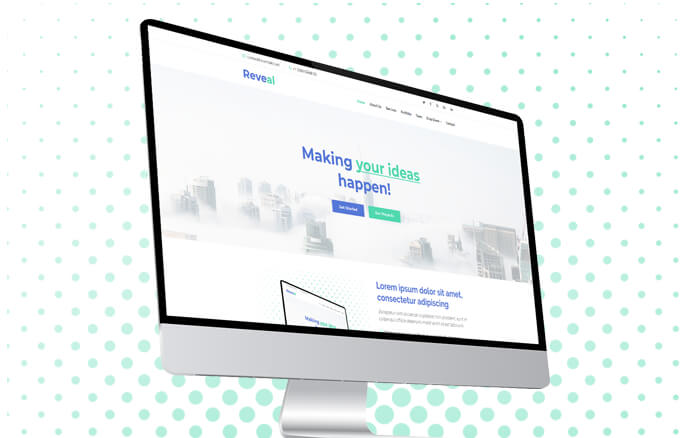
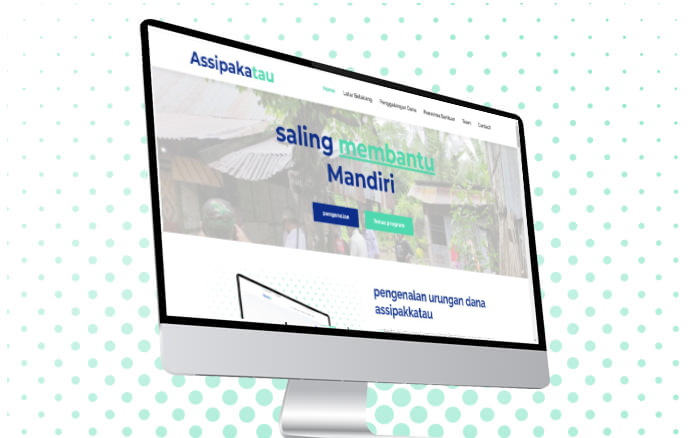
foto

diff --git a/app/Views/page/index.php b/app/Views/page/index.php
@@ -114,8 +114,8 @@ if ($auth) {
         <div class="hero-content" data-aos="fade-up">
             <h2>saling <span>membantu</span><br>Mandiri</h2>
             <div>
-                <a href="#about" class="btn-get-started scrollto">pengenalan</a>
-                <a href="#portfolio" class="btn-projects scrollto">fokus program</a>
+                <a href="#about" class="btn-get-started scrollto">Latar Belakang</a>
+                <a href="#portfolio" class="btn-projects scrollto">Mari Donasi</a>
             </div>
         </div>
 
@@ -252,7 +252,7 @@ if ($auth) {
                 <div class="row portfolio-container" data-aos="fade-up" data-aos-delay="200">
 
                     <div class="col-lg-4 col-md-6 portfolio-item filter-app">
-                        <img src="assets/img/portfolio/portfolio-1.jpg" class="img-fluid" alt="">
+                        <img src="assets/img/portfolio/home.jpg" class="img-fluid" alt="">
                         <div class="portfolio-info">
                             <h4>App 1</h4>
                             <p>App</p>
